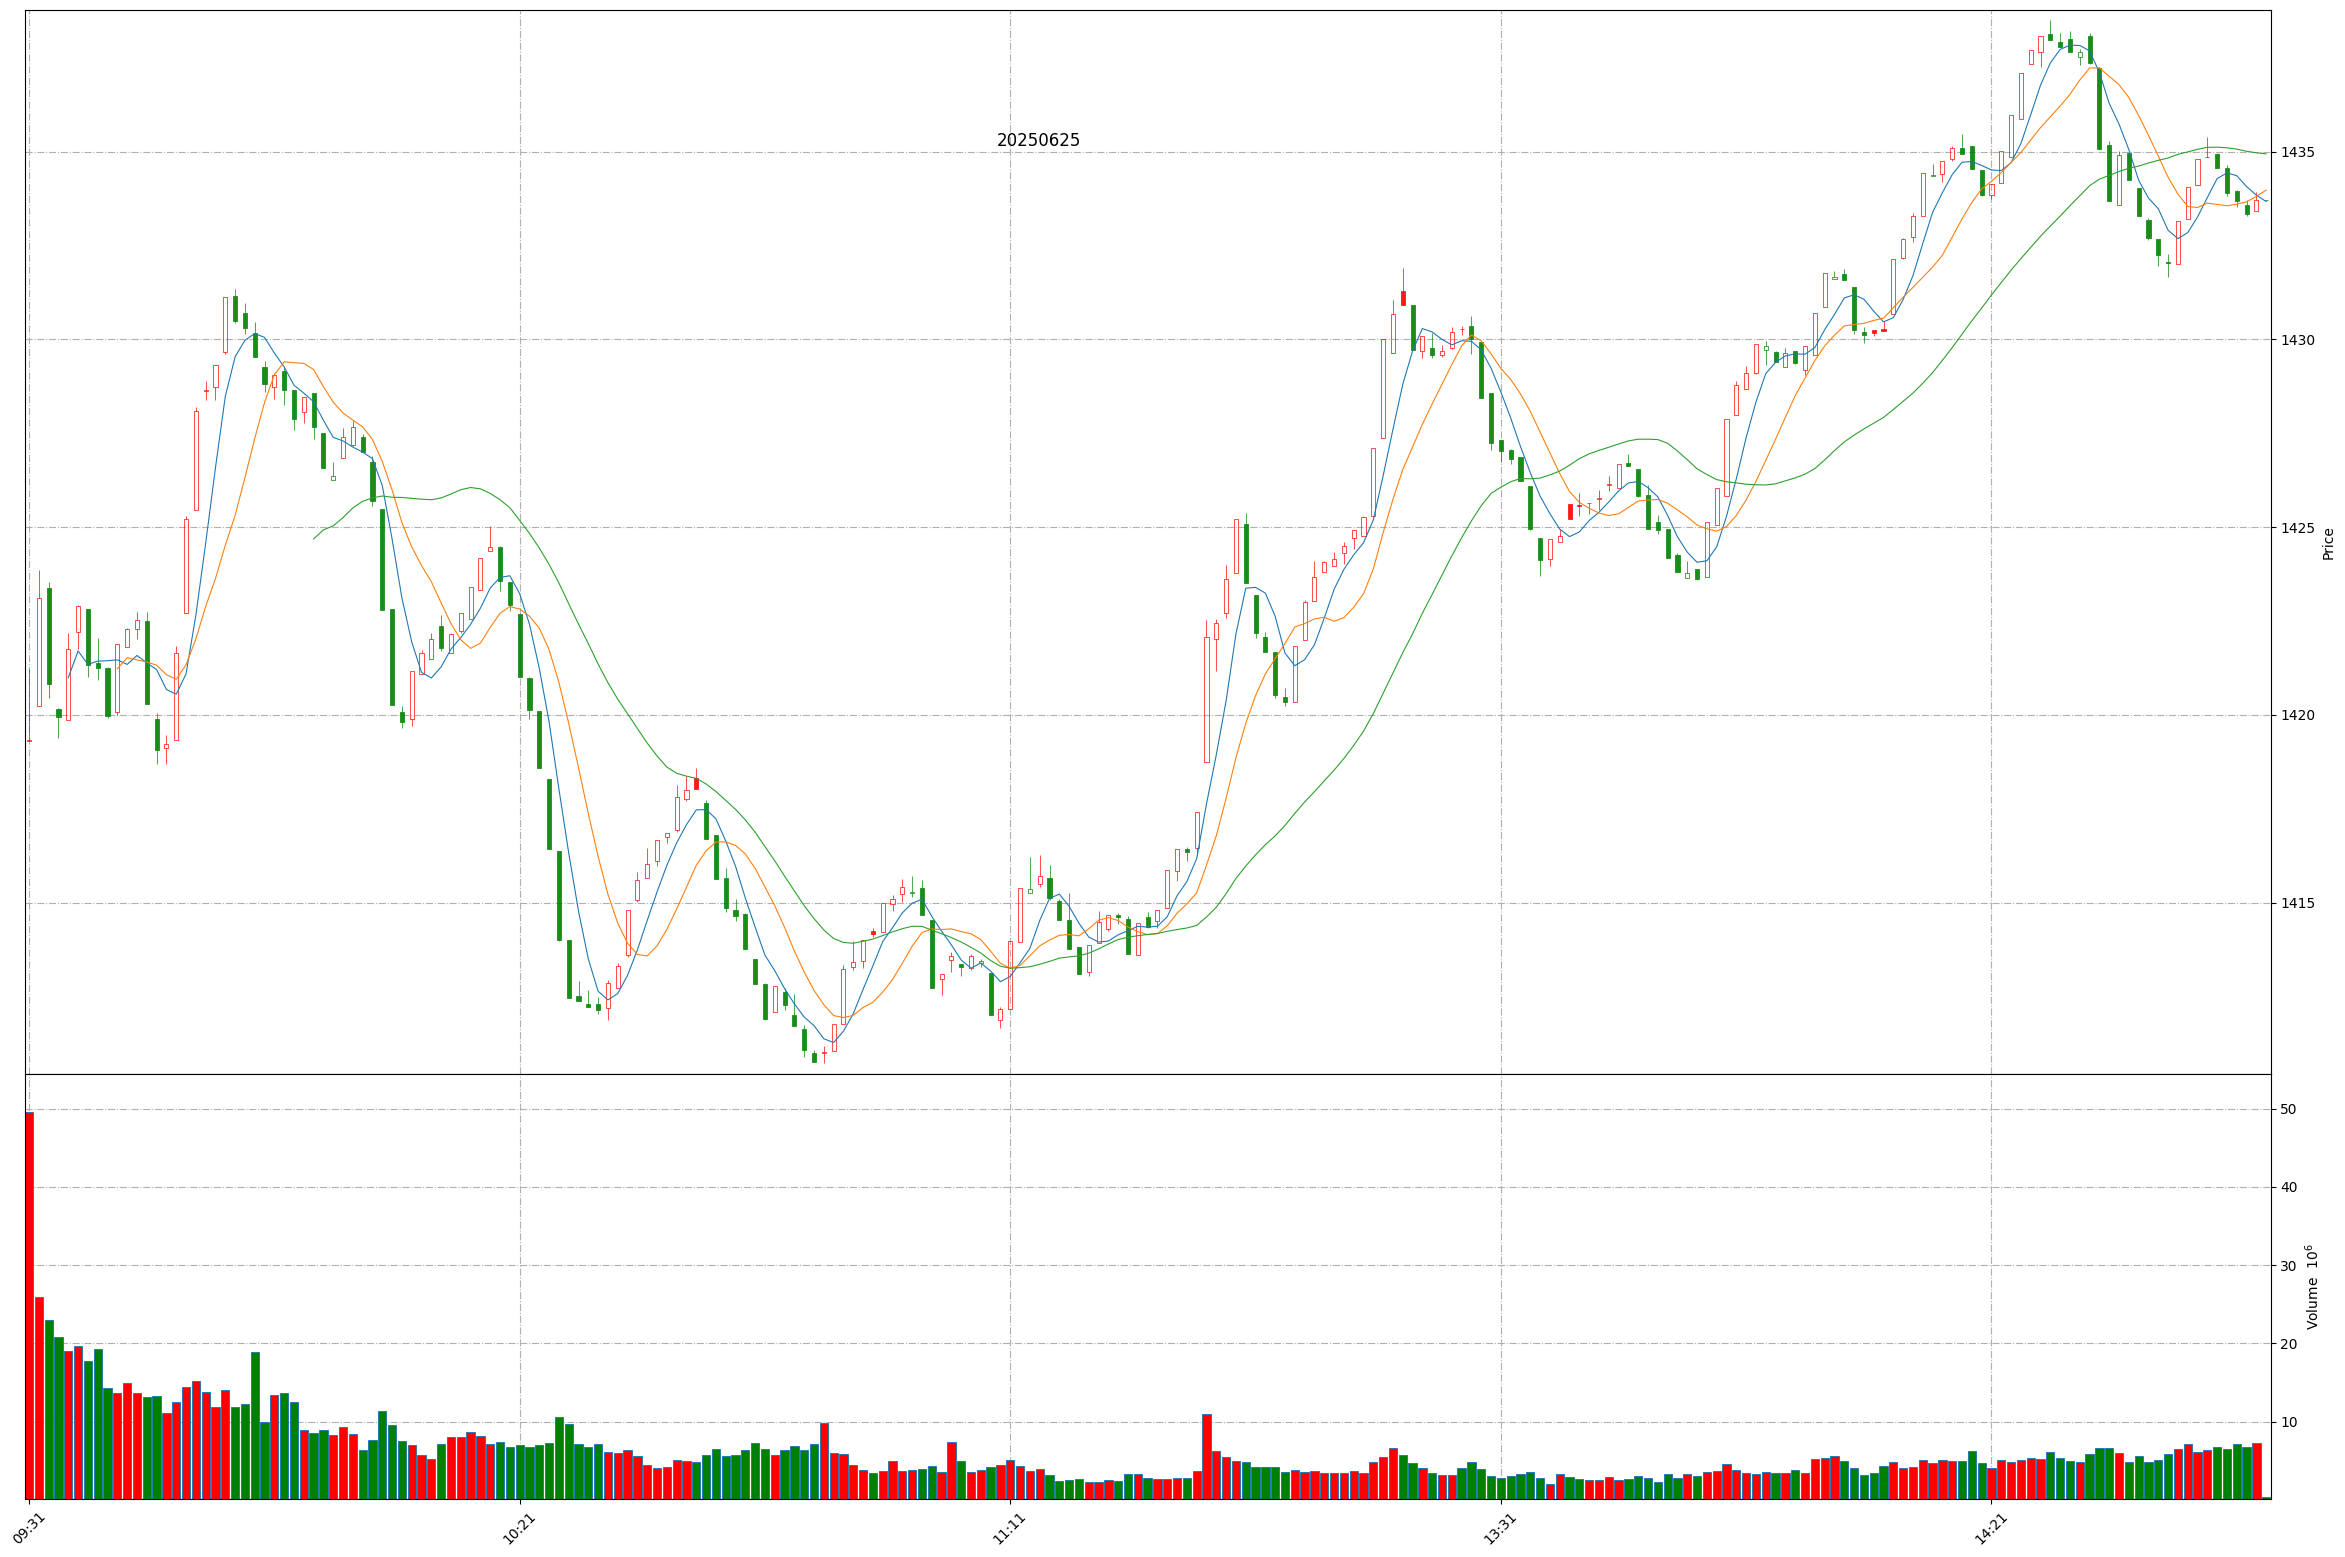
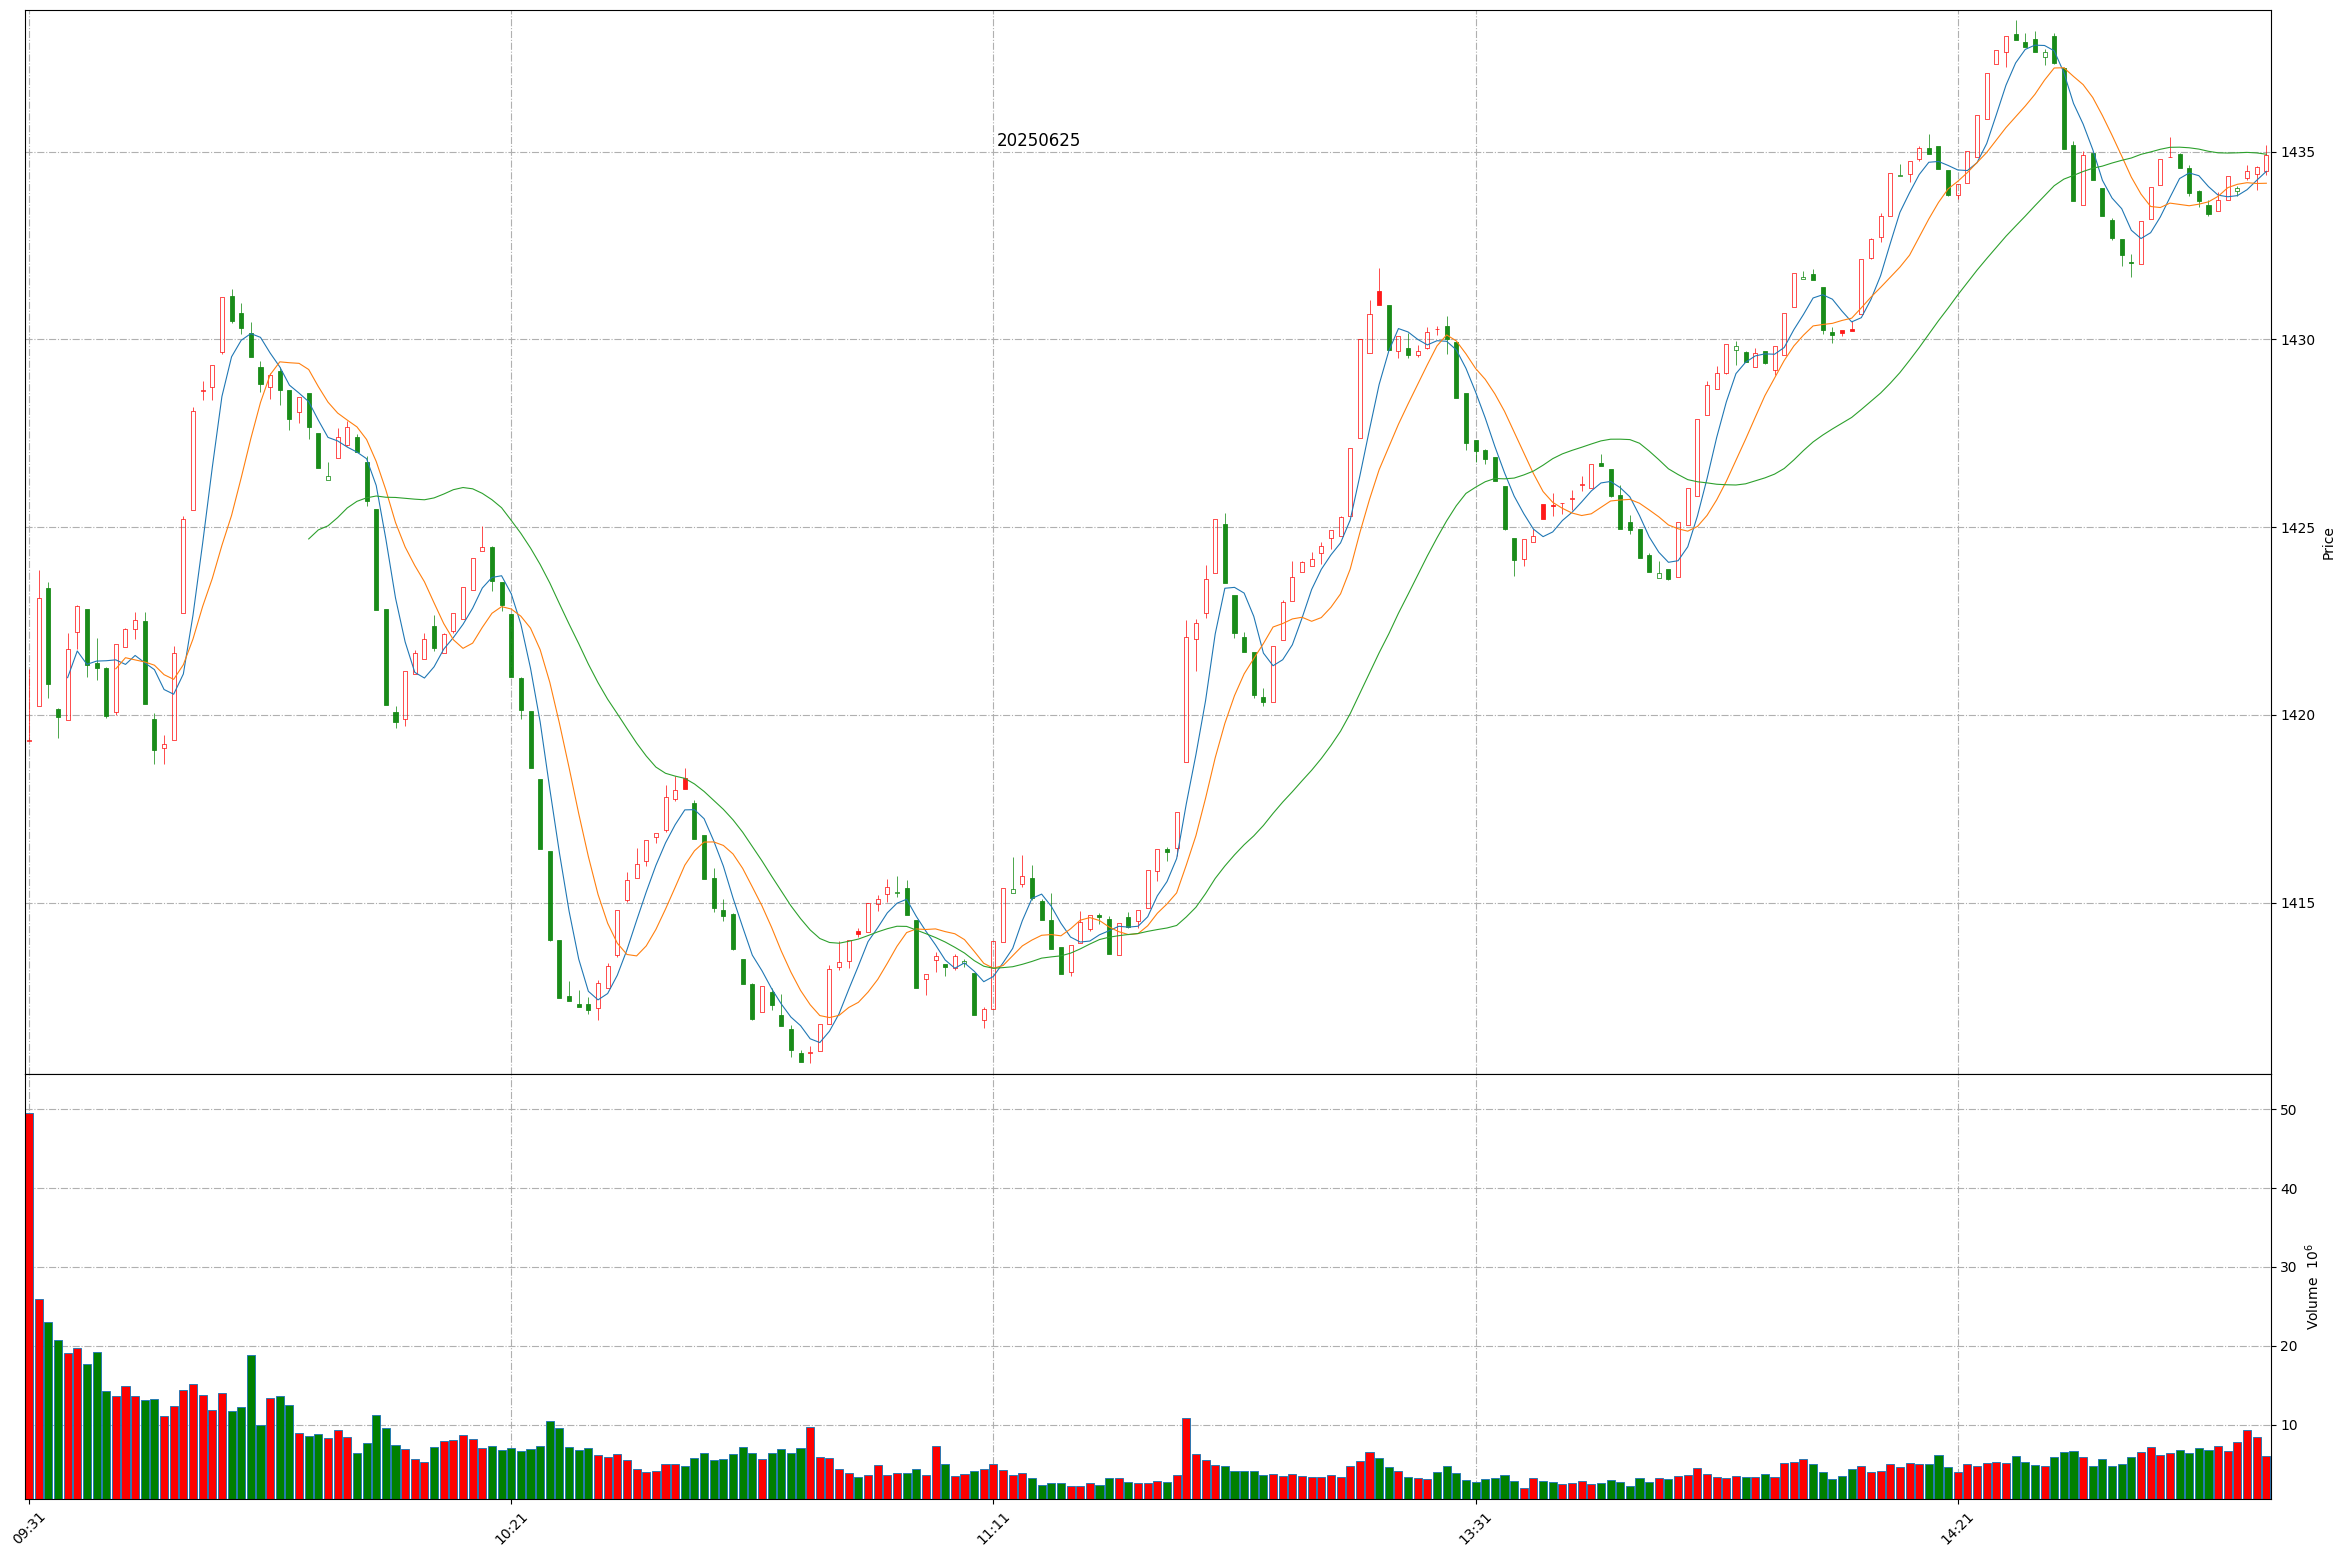
Github action update at 2025-06-25 14:52:58.

diff --git a/README.md b/README.md
@@ -1,11 +1,11 @@
 
 # Daily-A-share-market-quotes 每日 A 股指数（5min 更新）- 20250625
 
-### 上证指数 20250625 14:48
+### 上证指数 20250625 14:52
 ![](./fig/2025/6/20250625-sh000001.png)
 
-### 深证成指 20250625 14:48
+### 深证成指 20250625 14:52
 ![](./fig/2025/6/20250625-sz399001.png)
 
-### 北证50 20250625 14:48
+### 北证50 20250625 14:52
 ![](./fig/2025/6/20250625-bj899050.png)
